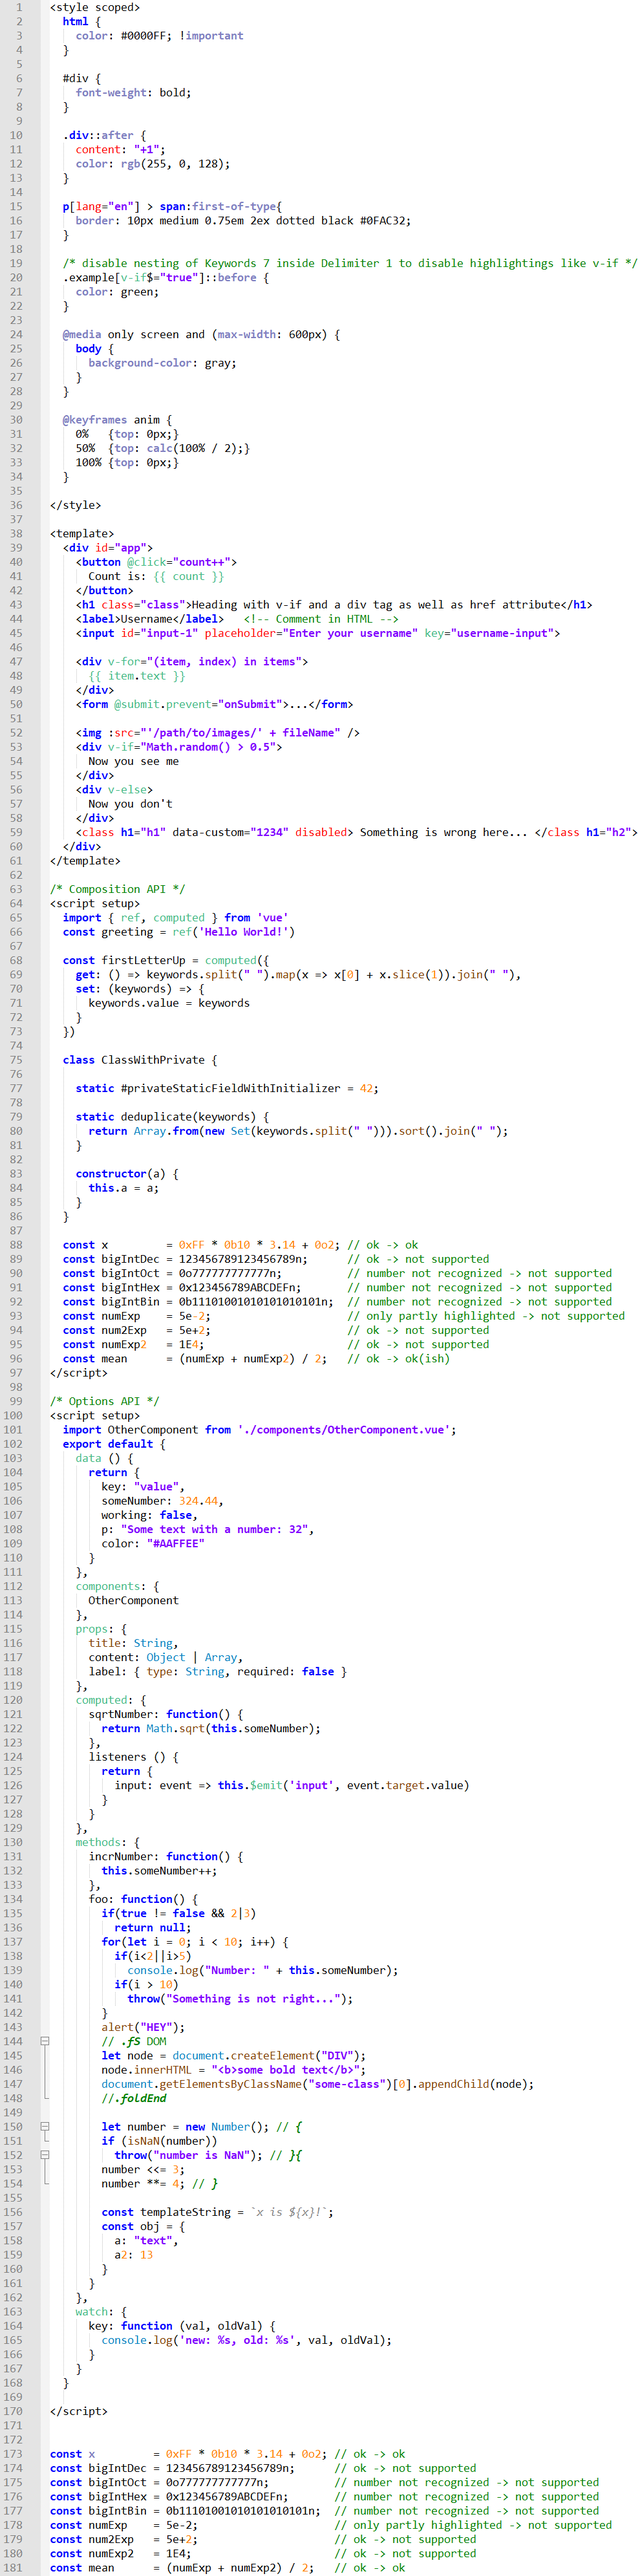
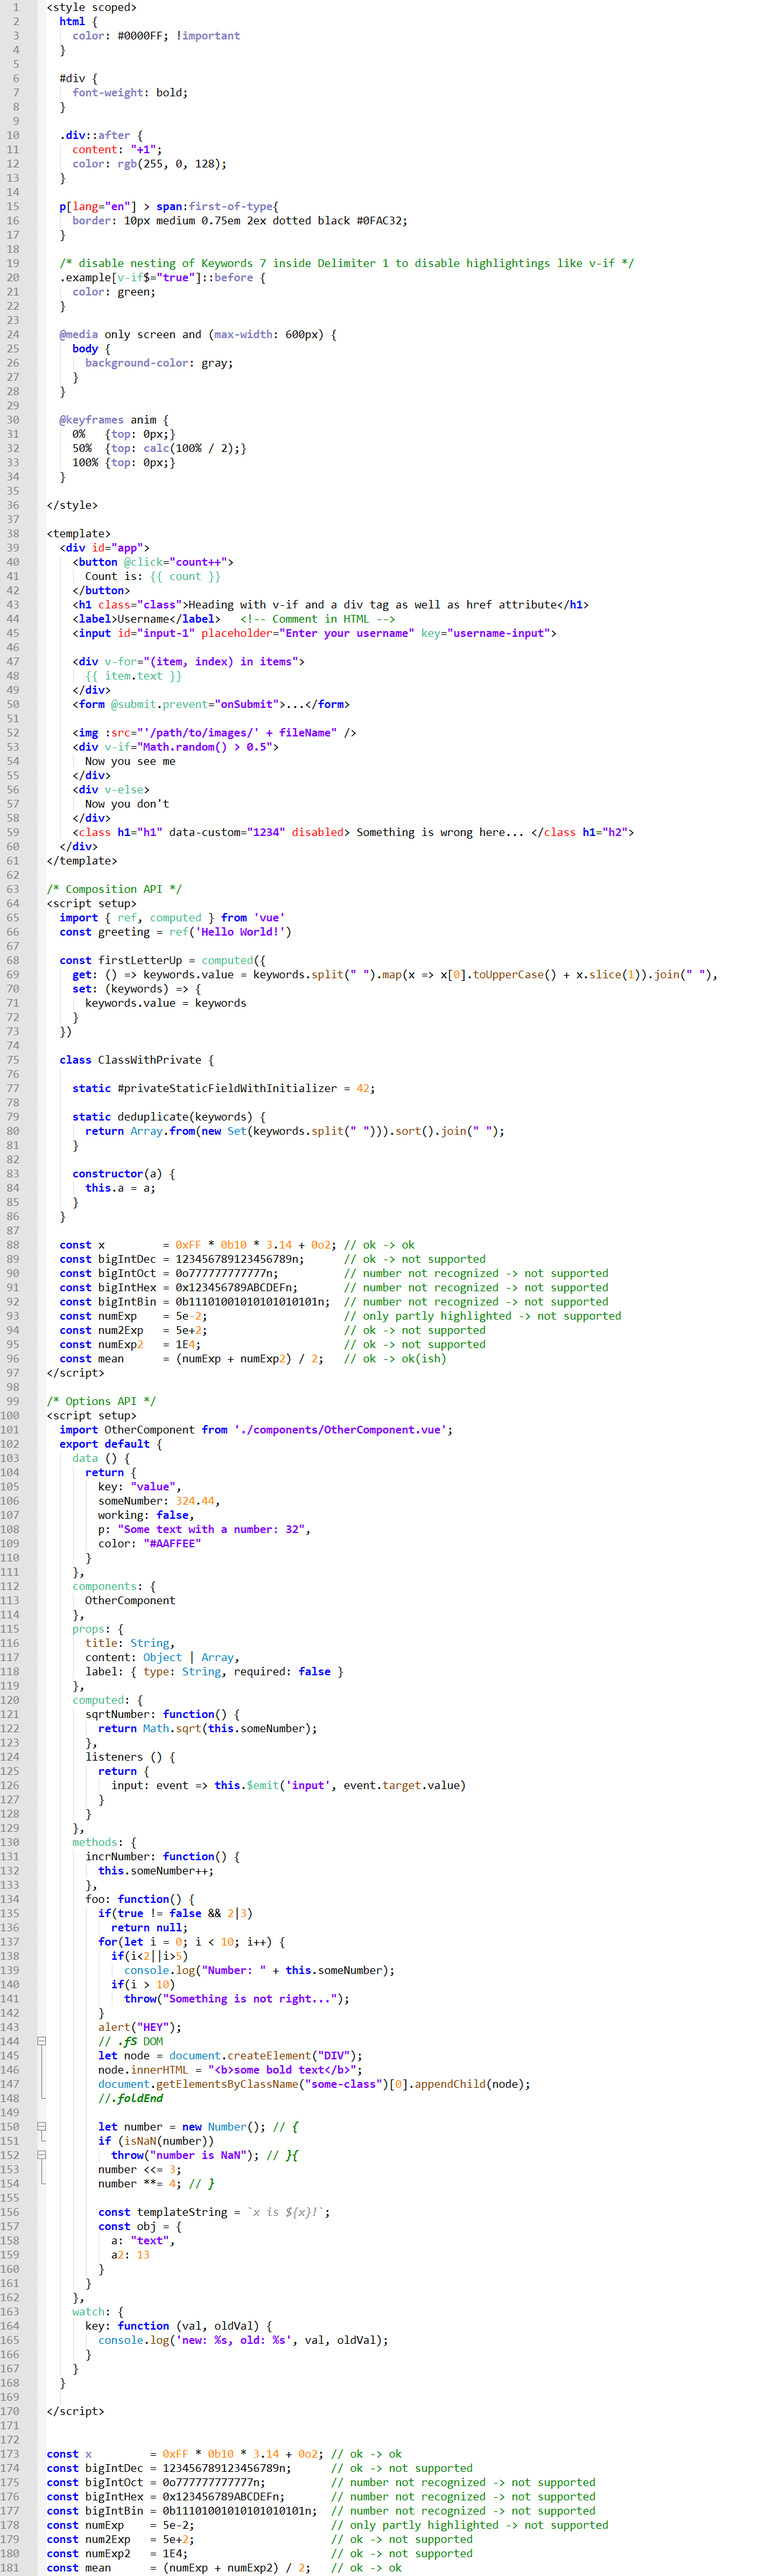
Fix in example code

diff --git a/example.vue b/example.vue
@@ -66,7 +66,7 @@
 	const greeting = ref('Hello World!')
 	
 	const firstLetterUp = computed({
-		get: () => keywords.split(" ").map(x => x[0] + x.slice(1)).join(" "),
+		get: () => keywords.value = keywords.split(" ").map(x => x[0].toUpperCase() + x.slice(1)).join(" "),
 		set: (keywords) => {
 			keywords.value = keywords
 		}
